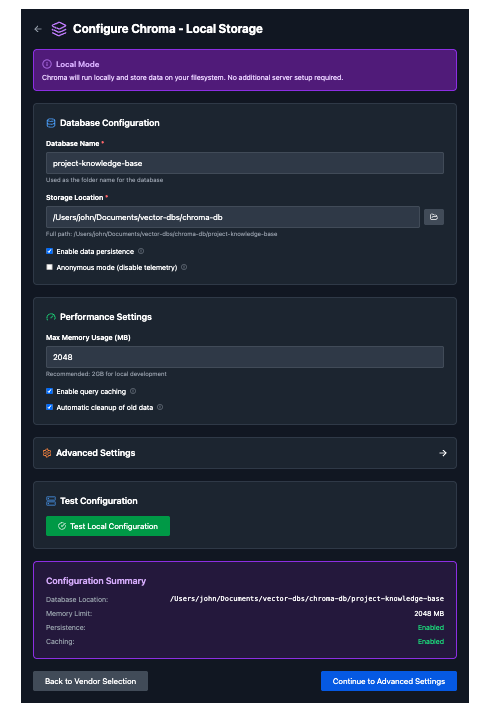
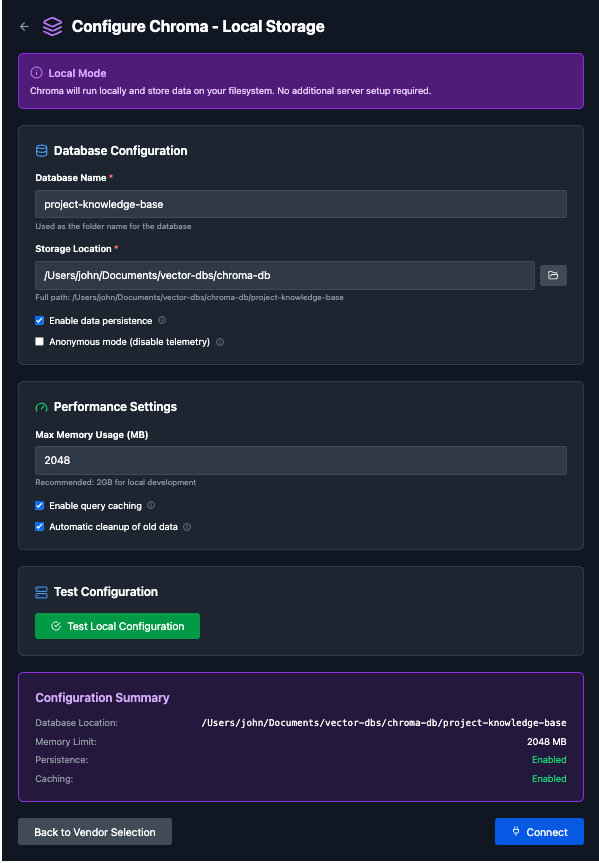
Updated chrom local connection pane

Changed region(s): [[0.0, 0.0, 1.0, 1.0], [0.9006, 0.4916, 0.9317, 0.5223]]

diff --git a/README.md b/README.md
@@ -30,3 +30,5 @@ The ideation of these comcepts have assumed the following components will be dev
     * Human-in-the-loop evaluation workflows.
     * Curated benchmark datasets relevant to specific application scenarios.
     * Mechanisms for assessing and scoring response quality.
+
+### Note: The included mockups are for ideation purposes only. Detailed design and architecture will be developed upon implementation selection.
